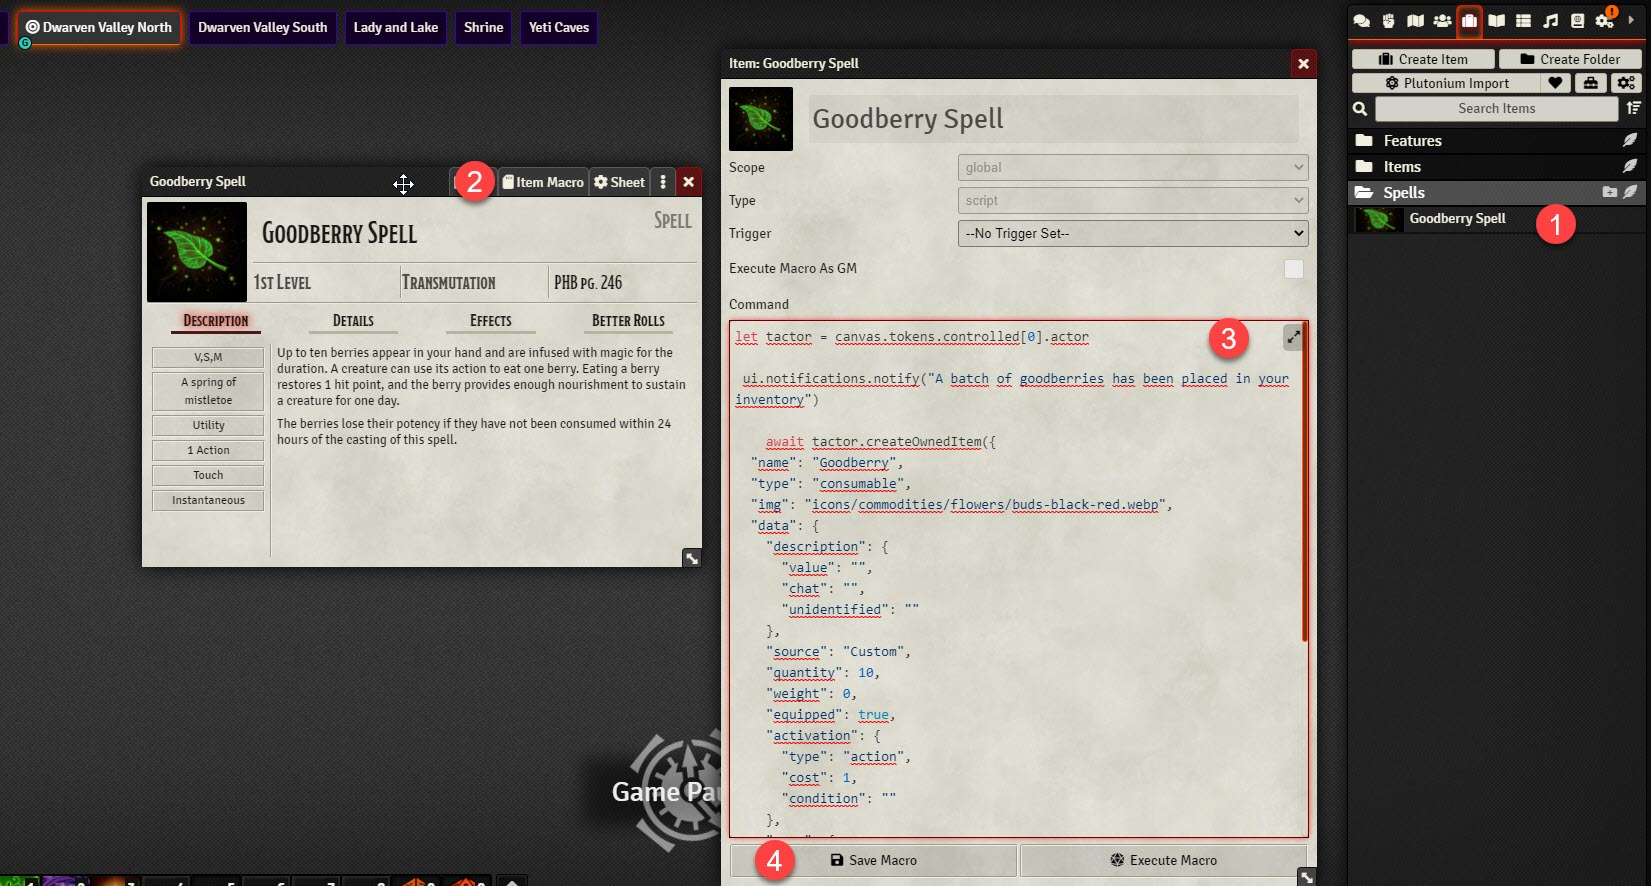
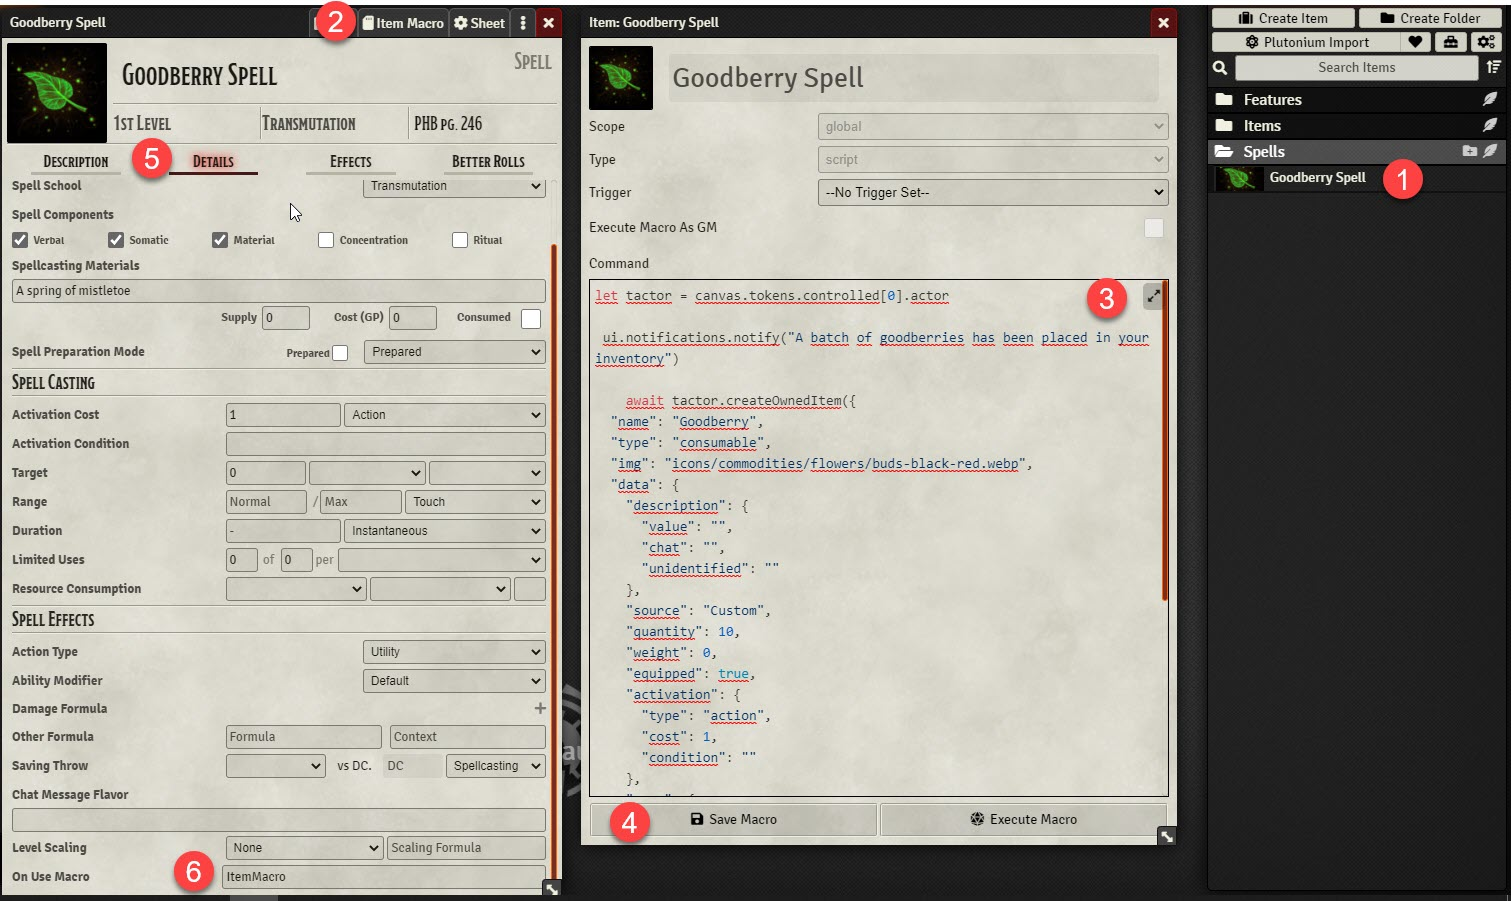
added final ItemMacro Setting

diff --git a/Macros/documentation/awardgoodberries.md b/Macros/documentation/awardgoodberries.md
@@ -29,7 +29,10 @@ Next you want to add the Macro that adds 10 new goodberries to your inventory to
 2. click the Item Macro option
 3. paste the macro script from <a href="..\GooberrySpellMacro.js">GooberrySpellMacro.js </a>
 4. Save
+5. Click the Details tab of the spell
+6. Enter **ItemMacro** under the On Use Macro section. No spaces. Case sensitive!
 
-5. Optionally, add the spell to the actor if you modified a version from the journal.
+
+Optionally, add the spell to the actor if you modified a version from the journal.
 
 you're good to go!!!
